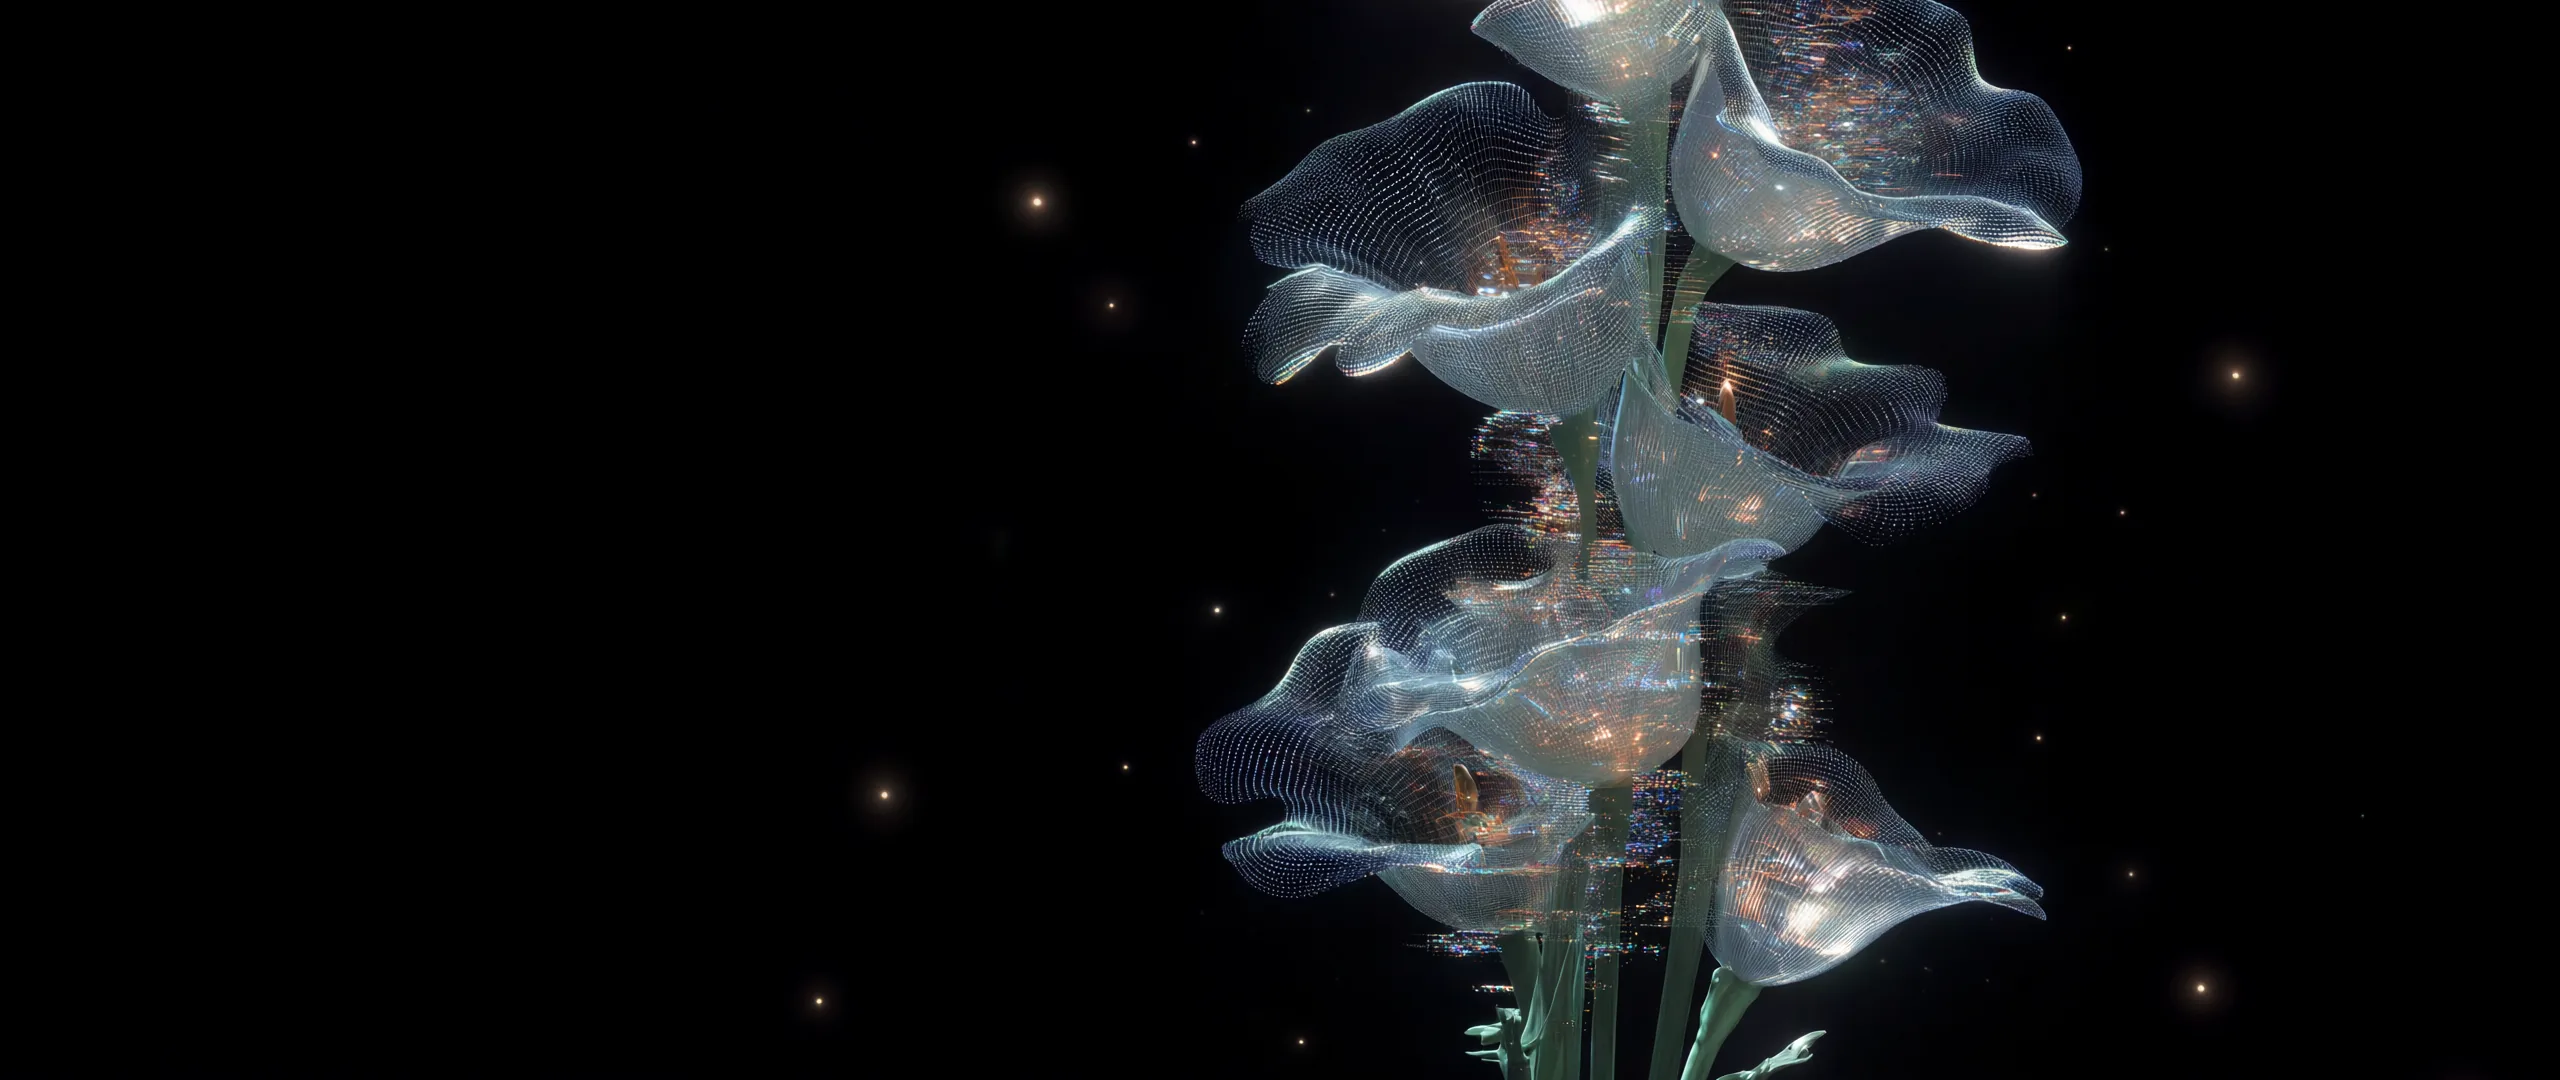
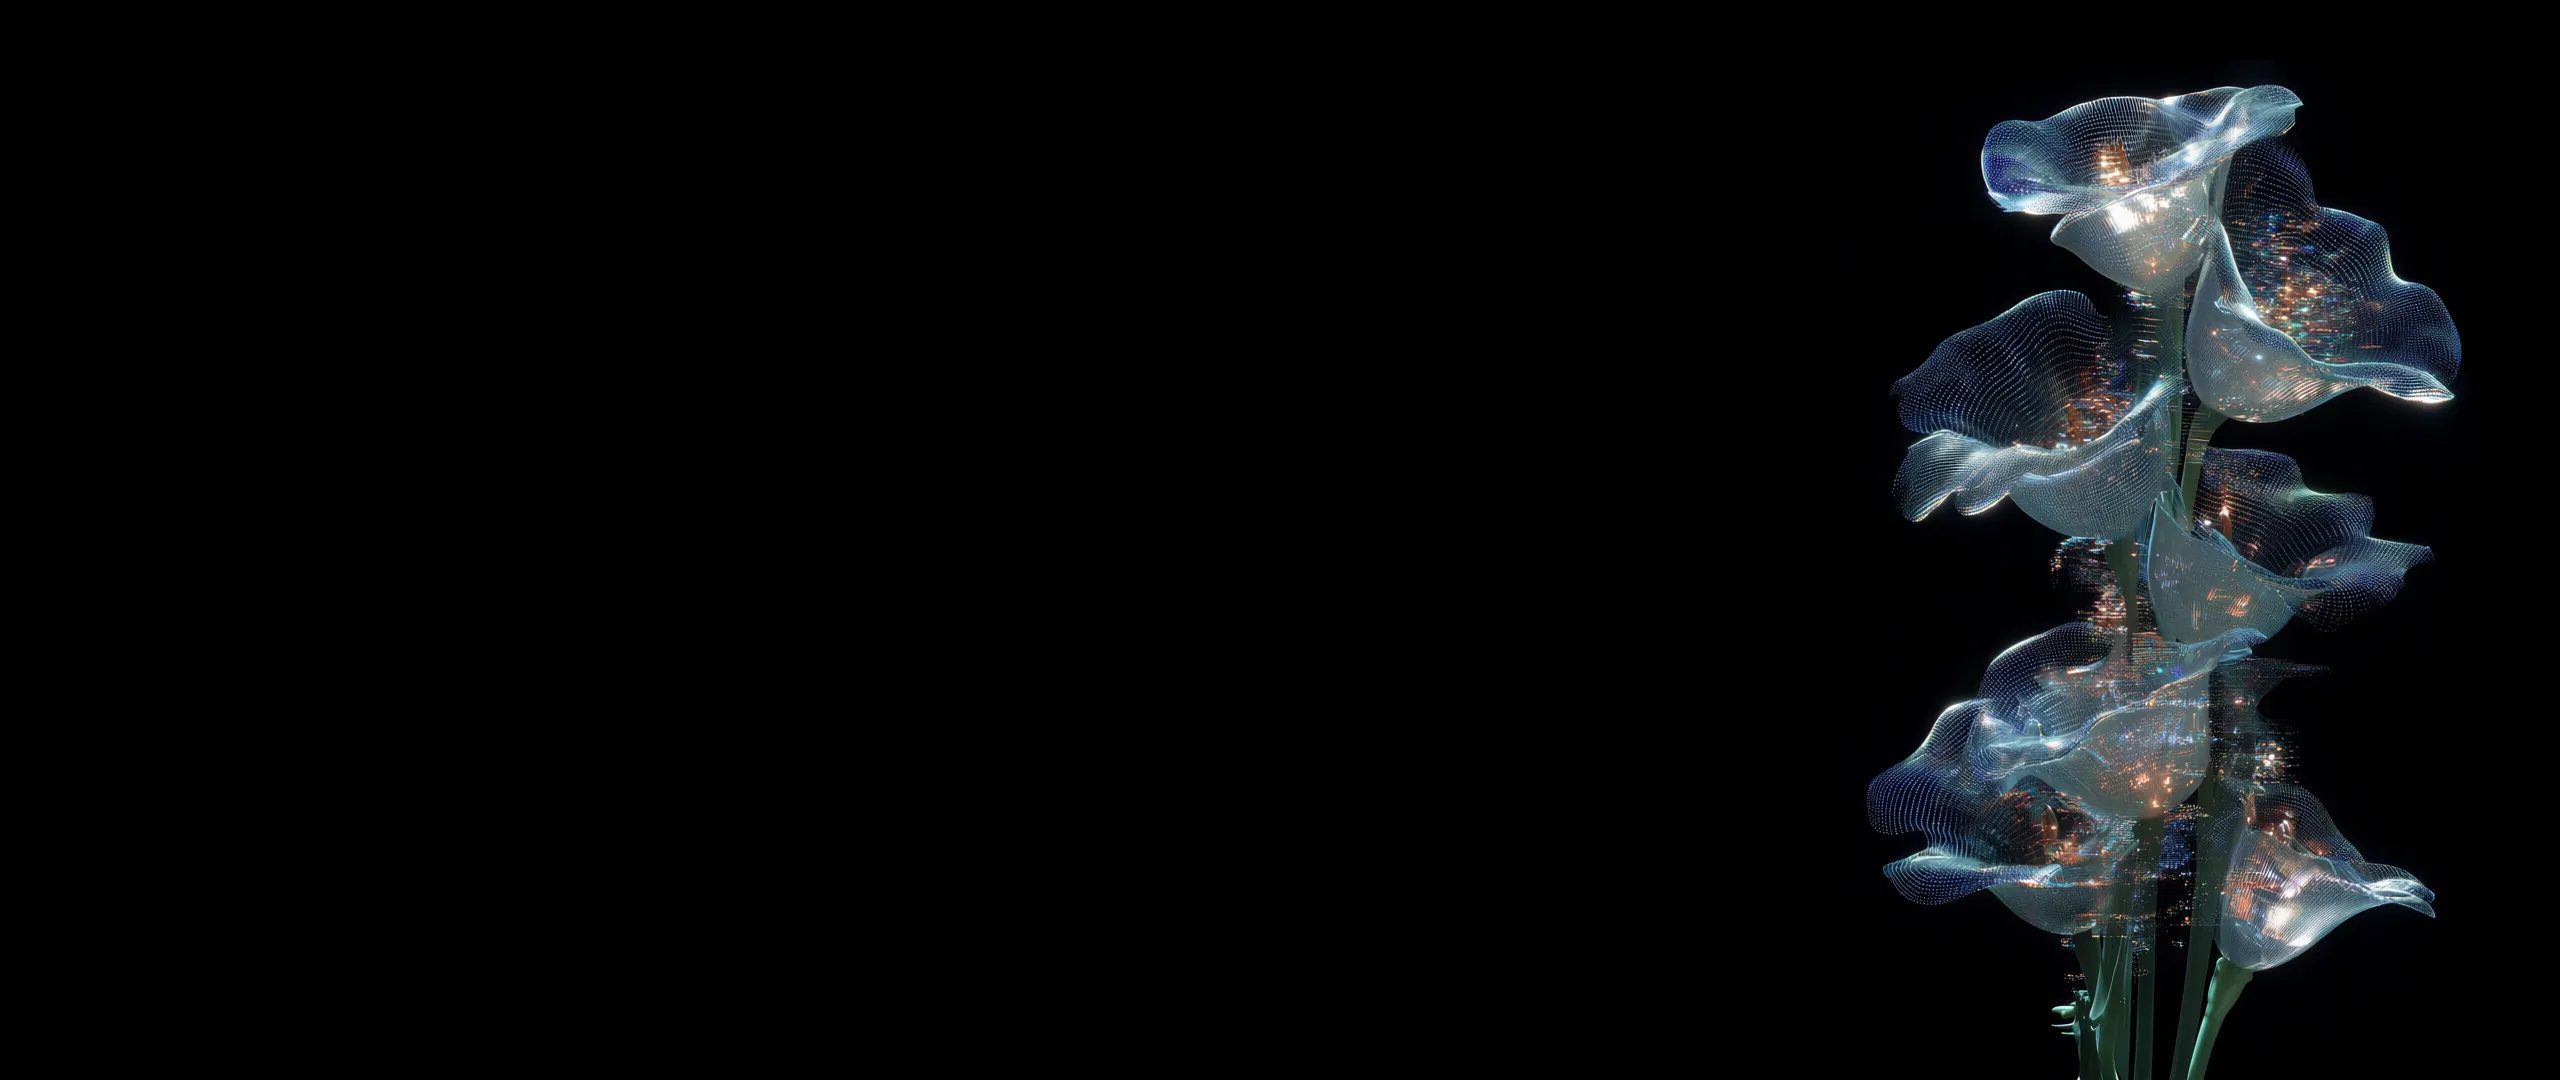
Show the whole bloom and preview a cited answer
The desktop art now frames the full flower cluster with room on every
edge, sitting to the right of the layout. The empty chat gets a small
example receipt with a source, so the citation idea is visible before
the first question. Citations pick up the artwork's warm gold.

diff --git a/public/styles.css b/public/styles.css
@@ -51,7 +51,7 @@ body {
 @media (min-width: 941px) {
   .backdrop {
     background-image: url("/assets/background-wide.webp");
-    background-position: center 46%;
+    background-position: right center;
   }
 }
 
@@ -279,6 +279,72 @@ svg { display: block; }
 .suggestion strong { display: block; font-size: 13.5px; font-weight: 550; letter-spacing: 0.01em; }
 .suggestion em { display: block; margin-top: 3px; font-style: normal; font-size: 12px; color: var(--muted); }
 
+.sample {
+  margin-top: 18px;
+  padding: 14px 16px 12px;
+  border: 1px dashed rgba(255, 216, 161, 0.24);
+  border-radius: 14px;
+  background:
+    radial-gradient(120% 110% at 100% 0%, rgba(255, 216, 161, 0.07), transparent 60%),
+    rgba(255, 255, 255, 0.02);
+}
+.sample-head { display: flex; align-items: center; justify-content: space-between; gap: 12px; margin-bottom: 10px; }
+.sample-tag {
+  display: inline-flex;
+  align-items: center;
+  gap: 7px;
+  font-size: 9.5px;
+  font-weight: 600;
+  letter-spacing: 0.16em;
+  text-transform: uppercase;
+  color: var(--amber);
+}
+.sample-tag::before {
+  content: "";
+  width: 5px;
+  height: 5px;
+  border-radius: 50%;
+  background: var(--amber);
+  box-shadow: 0 0 10px rgba(255, 216, 161, 0.8);
+}
+.sample-note { font-size: 9.5px; letter-spacing: 0.04em; color: var(--muted-2); white-space: nowrap; }
+.sample-q { display: flex; align-items: baseline; gap: 8px; margin: 0 0 8px; font-size: 12px; color: var(--muted); }
+.sample-mark {
+  flex: none;
+  padding: 0 4px;
+  border: 1px solid rgba(255, 216, 161, 0.35);
+  border-radius: 4px;
+  font-size: 9px;
+  font-weight: 700;
+  line-height: 1.5;
+  color: var(--amber);
+}
+.sample-answer { margin: 0; font-size: 13px; line-height: 1.6; color: #e9f4fa; }
+.sample-source {
+  display: flex;
+  align-items: center;
+  gap: 10px;
+  margin-top: 12px;
+  padding-top: 10px;
+  border-top: 1px dashed rgba(255, 216, 161, 0.16);
+}
+.sample-num {
+  flex: none;
+  display: grid;
+  place-items: center;
+  width: 17px;
+  height: 17px;
+  border: 1px solid rgba(255, 216, 161, 0.4);
+  border-radius: 50%;
+  font-size: 9px;
+  font-weight: 700;
+  color: var(--amber);
+}
+.sample-doc { display: flex; flex-direction: column; min-width: 0; line-height: 1.3; }
+.sample-doc strong { font-size: 11.5px; font-weight: 600; color: var(--ink); }
+.sample-doc span { font-size: 10.5px; color: var(--muted-2); }
+.sample-source .chip { margin-left: auto; }
+
 .msg { display: flex; flex-direction: column; animation: rise 0.22s ease both; }
 .msg.user { align-self: flex-end; max-width: 80%; align-items: flex-end; }
 .msg.user .bubble {
@@ -338,8 +404,8 @@ svg { display: block; }
   margin: 0 1px;
   padding: 0 2px;
   border-radius: 4px;
-  background: rgba(185, 236, 255, 0.16);
-  color: #dff6ff;
+  background: rgba(255, 216, 161, 0.16);
+  color: var(--amber);
   font-size: 9px;
   font-weight: 700;
   vertical-align: super;
@@ -612,6 +678,8 @@ details.sources[open] summary::before { content: "\2212"; }
   .send-icon { display: block; }
   .composer button { width: 46px; padding: 0; }
   .stats { grid-template-columns: repeat(3, minmax(0, 1fr)); }
+  .sample { padding: 12px 13px 11px; }
+  .sample-note { display: none; }
 }
 
 @media (prefers-reduced-motion: reduce) {

diff --git a/public/index.html b/public/index.html
@@ -90,6 +90,23 @@
                 </span>
               </button>
             </div>
+
+            <div class="sample" role="note" aria-label="Example answer with a cited source">
+              <div class="sample-head">
+                <span class="sample-tag">Example answer</span>
+                <span class="sample-note">Every answer shows its source</span>
+              </div>
+              <p class="sample-q"><span class="sample-mark">Q</span>Can I carry unused earned leave into next year?</p>
+              <p class="sample-answer">Up to 30 unused earned leave days carry over into the next year&nbsp;<span class="cite">1</span>. Anything above that lapses on 31 March.</p>
+              <div class="sample-source">
+                <span class="sample-num">1</span>
+                <span class="sample-doc">
+                  <strong>Leave policy</strong>
+                  <span>Carry over to next year</span>
+                </span>
+                <span class="chip cited"><span class="dot"></span>Cited</span>
+              </div>
+            </div>
           </div>
         </div>
 
